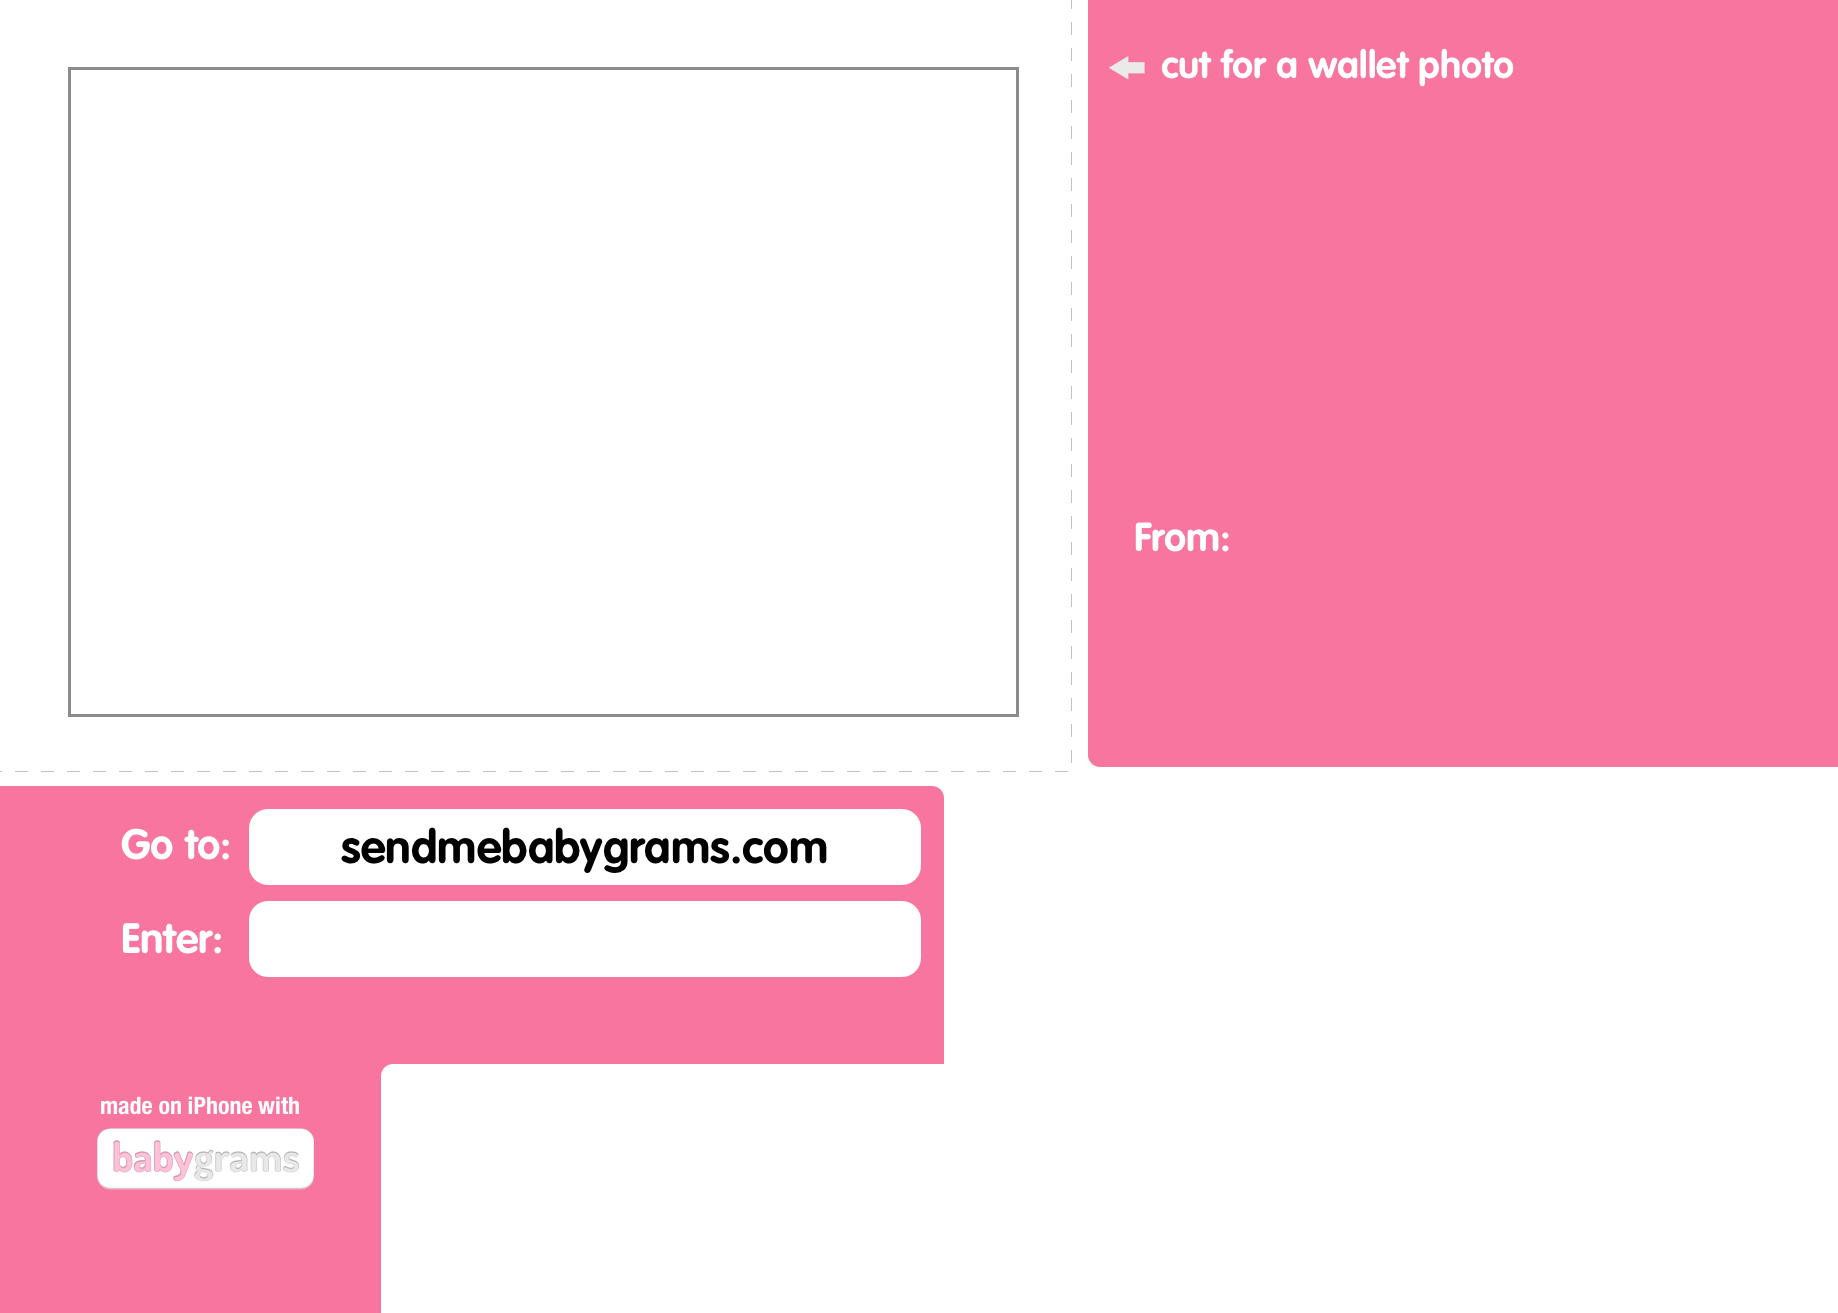
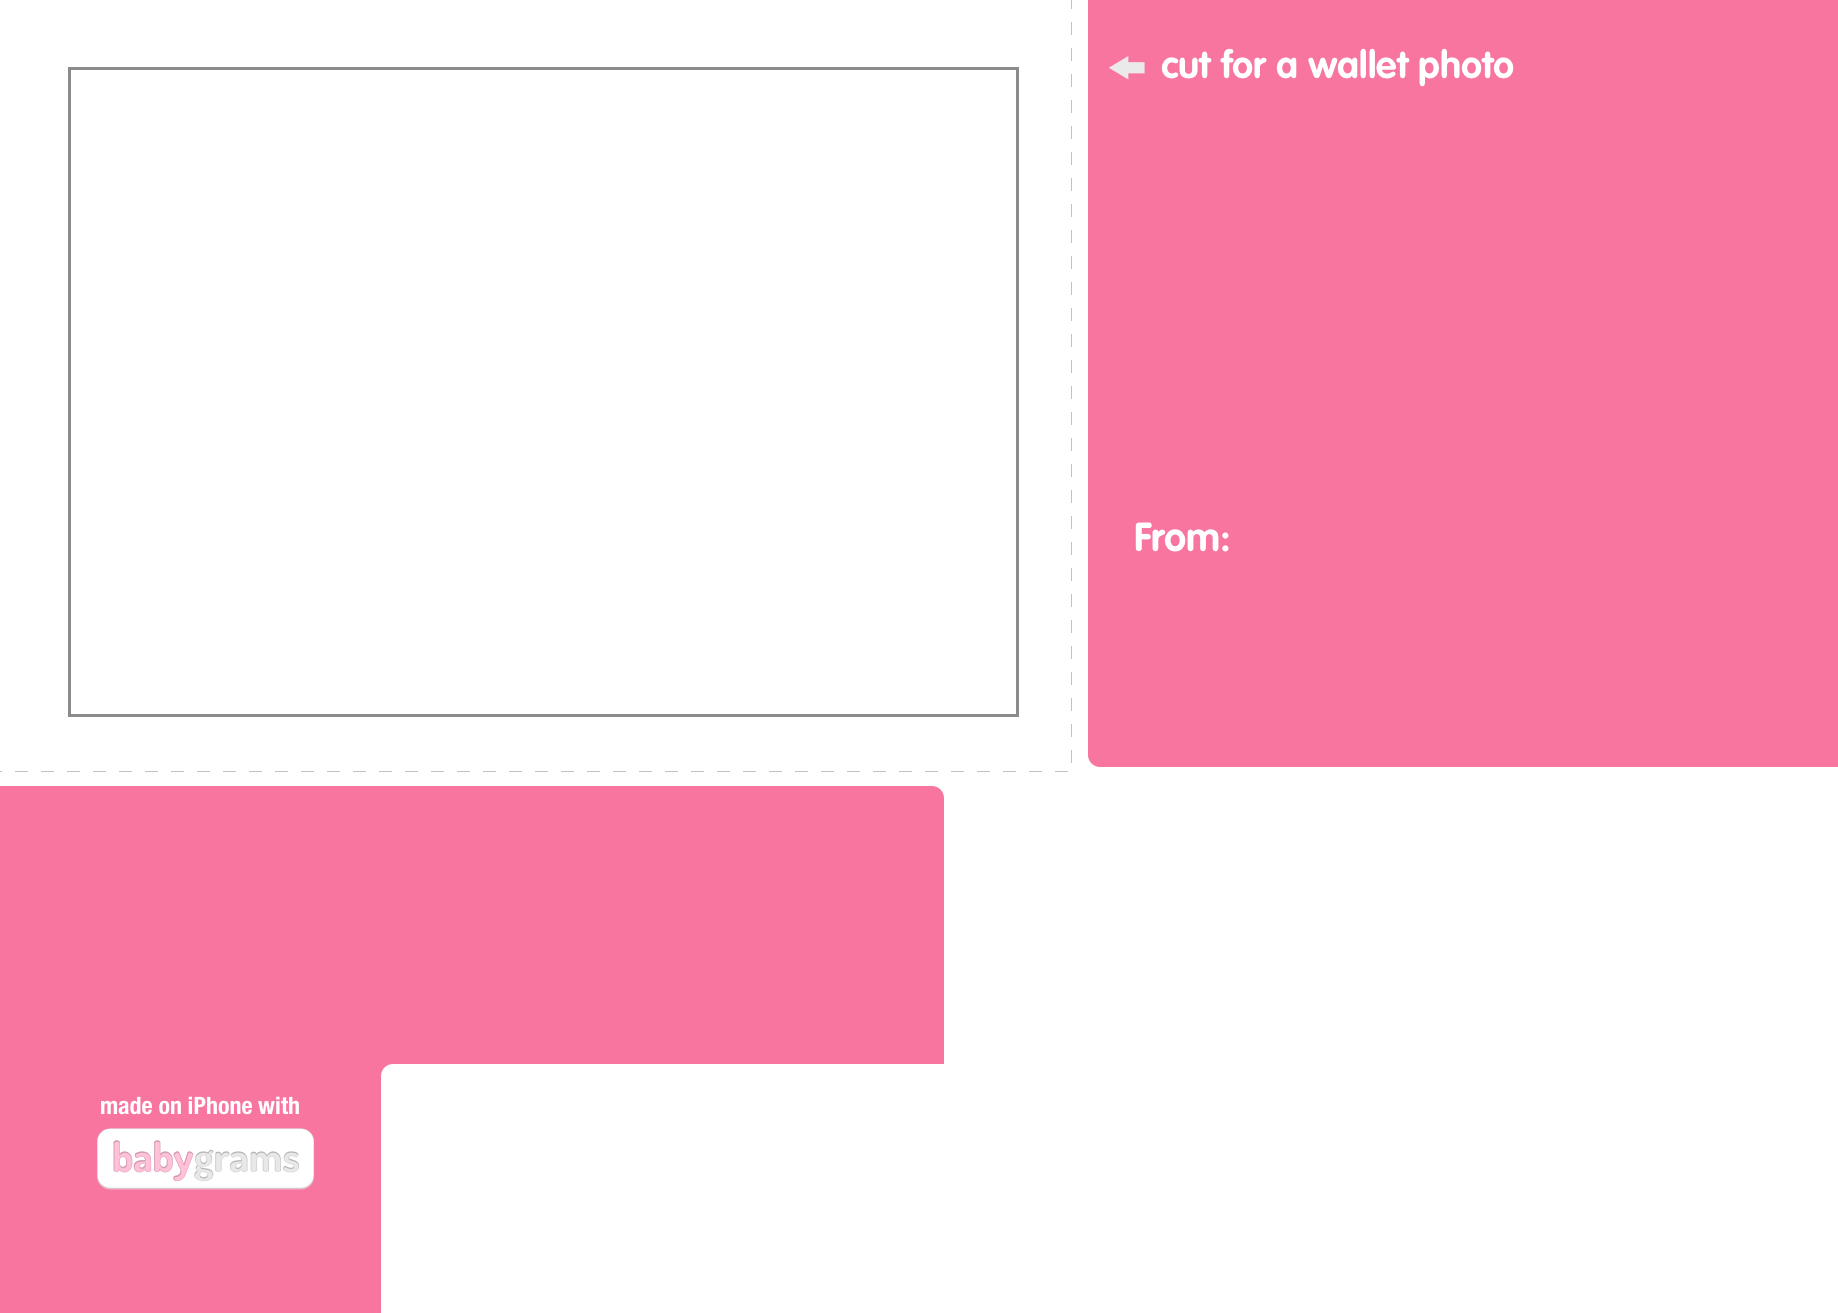
don't show credits nag on postcard if sending to self

Changed region(s): [[0.062, 0.5933, 0.5272, 0.7494]]

diff --git a/lib/postcard_image_generator.rb b/lib/postcard_image_generator.rb
@@ -47,6 +47,7 @@ class PostcardImageGenerator < ImageGenerator
       end
 
       title_on_top = card_design.top_caption.size < card_design.bottom_caption.size
+      draw_credits_nag = @card_printing.should_draw_credits_nag?
       render_qr_on_front = false
 
       #if card_design.top_caption.size > 0 && card_design.bottom_caption.size > 0
@@ -69,7 +70,7 @@ class PostcardImageGenerator < ImageGenerator
           prefix = "Pink"
         end
 
-        back_file = template_path + "/#{prefix}BackTemplate.png"
+        back_file = template_path + "/#{prefix}BackTemplate#{draw_credits_nag ? "CreditsNag" : ""}.png"
         title_on_top = false
       else
         front_file = template_path + "/FrontTemplate#{render_qr_on_front ? (title_on_top ? "Flipped" : "") : (title_on_top ? "FlippedCodeless.png" : "Codeless.png")}"
@@ -153,7 +154,7 @@ class PostcardImageGenerator < ImageGenerator
                                     back_with_text.text(1310, name_y_offset, fb_name)
                                     back_with_text.draw(back)
 
-                                    if app == App.babygrams
+                                    if app == App.babygrams && draw_credits_nag
                                       draw_credits_nag(back)
                                     end
 

diff --git a/app/models/card_printing.rb b/app/models/card_printing.rb
@@ -50,6 +50,10 @@ class CardPrinting < ActiveRecord::Base
     self.recipient_user.user_profile.try(:name)
   end
 
+  def should_draw_credits_nag?
+    self.recipient_user != self.card_order.order_sender_user
+  end
+
   def lookup_number
     (self.card_printing_id * 13) + 17
   end
